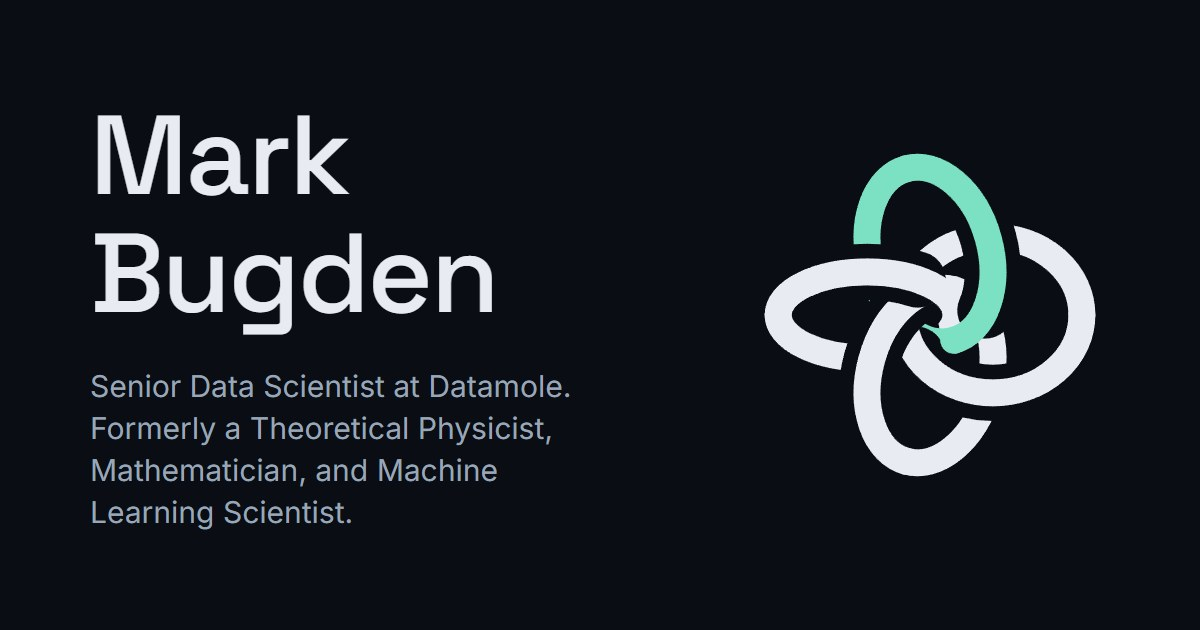
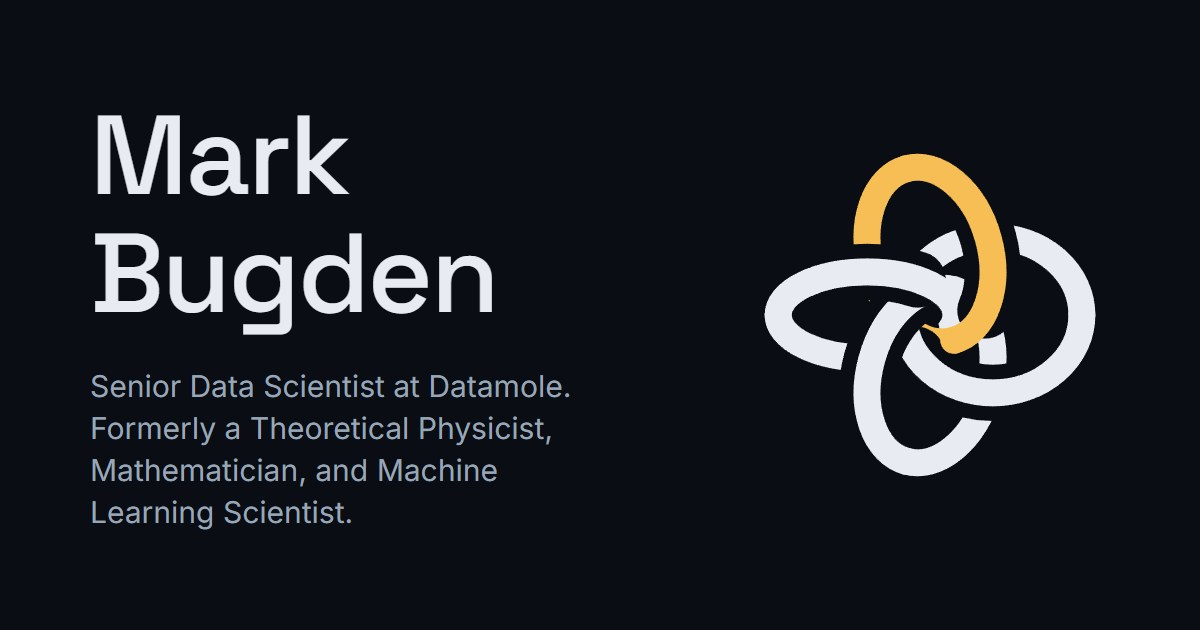
Sodium and H-alpha accents, dark by default, linked highlights
- Accent: sodium amber (#F6BE55) on dark, H-alpha red (#C2391B) on
  light, Mark's pick from the preview panel, where it is now the first
  option. The mark's accent fibre, the favicon, the touch icon and the
  link-preview image follow.
- Dark is the default whatever the OS prefers; light only when the
  visitor picks it. theme.js now always sets <html data-theme>, so
  demos match, and keeps the color-scheme and theme-color metas in step.
- Hovering a cell or pill on the figure, or a section link below it,
  now lights that section's orbits and its section link together: the
  hairline and title take the accent and the summary brightens.

Changed region(s): [[0.7092, 0.2413, 0.8633, 0.573]]

diff --git a/assets/css/site.css b/assets/css/site.css
@@ -1,8 +1,8 @@
 /*
  * Site styles: the phase portrait design. Every colour, face and size comes from the tokens on
- * :root below: dark by default, light when the OS prefers it, and either one when the visitor picks
- * it with the header button (<html data-theme>). Demos carry their own tokens on [data-demo], so
- * nothing here reaches inside a demo.
+ * :root below: dark, whatever the OS prefers, and light only when the visitor picks it with the
+ * header button (<html data-theme="light">). Demos carry their own tokens on [data-demo], so nothing
+ * here reaches inside a demo.
  */
 
 /* Fonts: self-hosted variable faces, Latin subset. Inter also has a Latin Extended file (Czech names
@@ -56,7 +56,7 @@
   --muted: #9AA6B8;
   --line: #2A3444;
   --curve: #526178;
-  --accent: #7CE0C3;
+  --accent: #F6BE55; /* sodium amber */
 
   --font-display: "Space Grotesk", system-ui, sans-serif;
   --font-text: "Inter", system-ui, sans-serif;
@@ -64,19 +64,6 @@
 
   --gutter: clamp(20px, 4vw, 56px);
   --measure: 680px;
-}
-
-@media (prefers-color-scheme: light) {
-  :root:not([data-theme="dark"]) {
-    color-scheme: light;
-    --bg: #F5F6F8;
-    --panel: #FFFFFF;
-    --fg: #10151D;
-    --muted: #556070;
-    --line: #D3D9E1;
-    --curve: #98A4B5;
-    --accent: color-mix(in oklab, #7CE0C3 50%, #000);
-  }
 }
 
 :root[data-theme="light"] {
@@ -87,7 +74,7 @@
   --muted: #556070;
   --line: #D3D9E1;
   --curve: #98A4B5;
-  --accent: color-mix(in oklab, #7CE0C3 50%, #000);
+  --accent: #C2391B; /* H-alpha red */
 }
 
 /* Base */
@@ -372,7 +359,7 @@ h2.label { margin-bottom: 12px; text-wrap: wrap; }
 }
 .phase__rotations { stroke: var(--line); stroke-width: 1; }
 .phase__separatrix { stroke: var(--curve); stroke-width: 1; stroke-dasharray: 4 5; }
-.phase__orbits { stroke: var(--curve); stroke-width: 1.3; transition: stroke 0.2s; }
+.phase__orbits { stroke: var(--lit, var(--curve)); stroke-width: 1.3; transition: stroke 0.2s; }
 /* The separatrix cells: invisible, but the whole of each is a link. */
 .phase__curves .phase__cell path { fill: transparent; stroke: none; pointer-events: fill; }
 .phase__cell:focus { outline: none; }
@@ -411,16 +398,14 @@ h2.label { margin-bottom: 12px; text-wrap: wrap; }
 
 .phase figcaption { margin-top: 10px; }
 
-/* An orbit group lights up while the pointer is anywhere in its cell, or while its pill or its section
-   link below the figure is hovered or focused. */
-main:has(:is(.phase__cell--about, .phase__pill--about, .section-link--about):is(:hover, :focus-visible)) .phase__orbits--about,
-main:has(:is(.phase__cell--publications, .phase__pill--publications, .section-link--publications):is(:hover, :focus-visible)) .phase__orbits--publications,
-main:has(:is(.phase__cell--projects, .phase__pill--projects, .section-link--projects):is(:hover, :focus-visible)) .phase__orbits--projects {
-  stroke: var(--accent);
-}
-
-@media (prefers-reduced-motion: reduce) {
-  .phase__orbits { transition: none; }
+/* A section lights up while the pointer is anywhere in its cell, or while its pill or its section link
+   below the figure is hovered or focused: its orbits and its section link change together. --lit is
+   the accent for the orbits, the link's hairline and its title; --lit-text brightens the summary. */
+main:has(:is(.phase__cell--about, .phase__pill--about, .section-link--about):is(:hover, :focus-visible)) :is(.phase__orbits--about, .section-link--about),
+main:has(:is(.phase__cell--publications, .phase__pill--publications, .section-link--publications):is(:hover, :focus-visible)) :is(.phase__orbits--publications, .section-link--publications),
+main:has(:is(.phase__cell--projects, .phase__pill--projects, .section-link--projects):is(:hover, :focus-visible)) :is(.phase__orbits--projects, .section-link--projects) {
+  --lit: var(--accent);
+  --lit-text: var(--fg);
 }
 
 .section-links {
@@ -436,12 +421,17 @@ main:has(:is(.phase__cell--projects, .phase__pill--projects, .section-link--proj
   flex-direction: column;
   gap: 6px;
   padding-block: 18px;
-  border-top: 1px solid var(--line);
+  border-top: 1px solid var(--lit, var(--line));
   color: var(--fg);
+  transition: border-color 0.2s;
 }
 .section-link:hover { color: var(--fg); }
-.section-link__title { font: 500 22px/1.5 var(--font-display); }
-.section-link__desc { color: var(--muted); }
+.section-link__title { font: 500 22px/1.5 var(--font-display); color: var(--lit, var(--fg)); transition: color 0.2s; }
+.section-link__desc { color: var(--lit-text, var(--muted)); transition: color 0.2s; }
+
+@media (prefers-reduced-motion: reduce) {
+  .phase__orbits, .section-link, .section-link__title, .section-link__desc { transition: none; }
+}
 
 /* About */
 

diff --git a/layouts/partials/accent-preview.html b/layouts/partials/accent-preview.html
@@ -1,7 +1,7 @@
 {{- /* Development only (hugo server; production builds leave it out): a panel for previewing accent
    colours across the site. Each preset pairs a dark-theme accent with a light-theme one, and every one
    clears 4.5:1 against both backgrounds of its theme. The choice is kept in localStorage, so it follows
-   you from page to page; "Current" clears it and shows what site.css sets. */ -}}
+   you from page to page. The first preset is what site.css sets: choosing it clears the override. */ -}}
 <style>
 .accent-preview { position: fixed; right: 16px; bottom: 16px; z-index: 100; display: flex; flex-direction: column; align-items: flex-end; gap: 8px; font: 400 14px/1.4 var(--font-text); color: var(--fg); }
 .accent-preview button { font: inherit; color: inherit; cursor: pointer; }
@@ -27,7 +27,8 @@
 <script>
 (function () {
   var presets = [
-    { name: 'Current', dark: '#7CE0C3', light: '#2C564A' },
+    { name: 'Sodium + H-alpha', dark: '#F6BE55', light: '#C2391B' },
+    { name: 'Original mint', dark: '#7CE0C3', light: '#2C564A' },
     { name: 'Mint', dark: '#7CE0C3', light: '#00785F' },
     { name: 'Cyan', dark: '#5ED3EE', light: '#00728F' },
     { name: 'Cherenkov blue', dark: '#86ABFF', light: '#2456D3' },
@@ -37,7 +38,7 @@
     { name: 'Sodium', dark: '#F6BE55', light: '#A35400' },
     { name: 'Phosphor', dark: '#A2E36E', light: '#3A7712' }
   ];
-  var key = 'accent-preview';
+  var key = 'accent-preview-2'; // bumped when the site's default changes, so an old preview is dropped
   var root = document.documentElement;
   var override = document.createElement('style');
   document.head.appendChild(override);
@@ -45,11 +46,10 @@
   function load(name) { try { return JSON.parse(localStorage.getItem(name)); } catch (e) { return null; } }
   function save(name, value) { try { localStorage.setItem(name, JSON.stringify(value)); } catch (e) { /* this page only */ } }
 
-  // :root:root and friends outrank site.css's token rules whatever order the sheets load in.
+  // :root:root and :root:root[data-theme] outrank site.css's token rules whatever order the sheets load in.
   function apply(choice) {
-    override.textContent = !choice || choice.name === 'Current' ? '' :
+    override.textContent = !choice || choice.name === presets[0].name ? '' :
       ':root:root{--accent:' + choice.dark + '}' +
-      '@media (prefers-color-scheme: light){:root:root:not([data-theme="dark"]){--accent:' + choice.light + '}}' +
       ':root:root[data-theme="light"]{--accent:' + choice.light + '}';
   }
 
@@ -165,9 +165,8 @@
     document.body.append(el('div', { class: 'accent-preview' }, [panel, toggle, probe]));
     if (load(key + '-open')) setOpen(true);
     render();
-    // Re-measure when the theme changes, from the header button or the OS.
+    // Re-measure when the header button changes the theme.
     new MutationObserver(render).observe(root, { attributes: true, attributeFilter: ['data-theme'] });
-    window.matchMedia('(prefers-color-scheme: light)').addEventListener('change', render);
   }
 
   if (document.readyState === 'loading') document.addEventListener('DOMContentLoaded', build);

diff --git a/assets/js/theme.js b/assets/js/theme.js
@@ -1,39 +1,41 @@
-// Theme: dark by default, light when the OS prefers it, unless the visitor has picked one with the
-// header button. This runs inline in <head>, so a saved choice applies before the first paint. Demos
-// follow <html data-theme> too.
+// Theme: dark, whatever the OS prefers, unless the visitor has picked light with the header button.
+// This runs inline in <head>, so a saved choice applies before the first paint. It always sets
+// <html data-theme>, which demos follow too, and keeps the color-scheme and theme-color metas in step,
+// so the browser's own surfaces match the page.
 // Keep "<" out of this file: minified, "a<b" looks like a tag to the link checker's HTML tokenizer,
 // which then stops reading the page.
 (function () {
   var root = document.documentElement;
   var key = 'theme';
-  var light = window.matchMedia('(prefers-color-scheme: light)');
+  var backgrounds = { dark: '#0A0E14', light: '#F5F6F8' };
 
-  try {
-    var saved = localStorage.getItem(key);
-    if (saved === 'light' || saved === 'dark') root.setAttribute('data-theme', saved);
-  } catch (e) { /* storage blocked: follow the OS */ }
-  root.classList.add('js');
-
-  function isDark() {
-    var theme = root.getAttribute('data-theme');
-    return theme ? theme === 'dark' : !light.matches;
+  function meta(name, content) {
+    var tag = document.querySelector('meta[name="' + name + '"]');
+    if (tag) tag.setAttribute('content', content);
   }
 
-  function sync() {
+  function set(theme) {
+    root.setAttribute('data-theme', theme);
+    meta('color-scheme', theme);
+    meta('theme-color', backgrounds[theme]);
     document.querySelectorAll('[data-theme-toggle]').forEach(function (button) {
-      button.setAttribute('aria-pressed', String(isDark()));
+      button.setAttribute('aria-pressed', String(theme === 'dark'));
     });
   }
 
-  document.addEventListener('DOMContentLoaded', sync);
-  if (light.addEventListener) light.addEventListener('change', sync);
+  var saved = null;
+  try { saved = localStorage.getItem(key); } catch (e) { /* storage blocked: stay dark */ }
+  set(saved === 'light' ? 'light' : 'dark');
+  root.classList.add('js');
+
+  // The header button is not parsed yet when this first runs.
+  document.addEventListener('DOMContentLoaded', function () { set(root.getAttribute('data-theme')); });
 
   document.addEventListener('click', function (event) {
     var button = event.target.closest && event.target.closest('[data-theme-toggle]');
     if (!button) return;
-    var next = isDark() ? 'light' : 'dark';
-    root.setAttribute('data-theme', next);
+    var next = root.getAttribute('data-theme') === 'dark' ? 'light' : 'dark';
+    set(next);
     try { localStorage.setItem(key, next); } catch (e) { /* the choice lasts for this page only */ }
-    sync();
   });
 })();

diff --git a/layouts/partials/head.html b/layouts/partials/head.html
@@ -13,9 +13,9 @@
 {{- else }}
 <link rel="canonical" href="{{ .Permalink }}">
 {{- end }}
-<meta name="color-scheme" content="light dark">
-<meta name="theme-color" content="#F5F6F8" media="(prefers-color-scheme: light)">
-<meta name="theme-color" content="#0A0E14" media="(prefers-color-scheme: dark)">
+{{- /* Dark until the visitor picks light; js/theme.js updates both when they do. */}}
+<meta name="color-scheme" content="dark">
+<meta name="theme-color" content="#0A0E14">
 {{- with resources.Get "js/theme.js" | minify }}
 <script>{{ .Content | safeJS }}</script>
 {{- end }}

diff --git a/scripts/hopf-mark.py b/scripts/hopf-mark.py
@@ -105,11 +105,11 @@ def main():
         f'<svg class="mark" viewBox="0 0 {SIZE} {SIZE}" aria-hidden="true" focusable="false">{inline}</svg>\n',
         encoding="utf-8",
     )
-    # site.css's --fg and --accent. The light accent is its color-mix(in oklab, #7CE0C3 50%, #000)
-    # worked out, since a favicon has no color-mix().
+    # site.css's --fg and --accent for each theme. The site itself is dark unless the visitor picks
+    # light, but a favicon sits on the browser's tab strip, so it follows the browser's theme.
     style = (
-        "path{fill:none;stroke-width:3.2;stroke-linecap:round}.f{stroke:#e8ecf2}.a{stroke:#7ce0c3}"
-        "@media (prefers-color-scheme:light){.f{stroke:#10151d}.a{stroke:#2c564a}}"
+        "path{fill:none;stroke-width:3.2;stroke-linecap:round}.f{stroke:#e8ecf2}.a{stroke:#f6be55}"
+        "@media (prefers-color-scheme:light){.f{stroke:#10151d}.a{stroke:#c2391b}}"
     )
     plain = "".join(f'<path class="{c}" d="{d}"/>' for d, _, c in arcs)
     (ROOT / "static/favicon.svg").write_text(

diff --git a/README.md b/README.md
@@ -25,7 +25,7 @@ hugo server -D        # http://localhost:1313, draft write-ups included
   - its write-up is not a draft
 
   The build fails if a published write-up's bundle is missing, is still a stub, or disagrees with `data/projects.yaml`.
-- **Styles** are all in [`assets/css/site.css`](assets/css/site.css). Its design tokens on `:root` hold every colour and typeface: dark by default, and light when the OS prefers it or the visitor picks it with the header button. Demos keep the kit's own tokens on `[data-demo]`. The fonts (Space Grotesk, Inter and JetBrains Mono) are self-hosted in `static/fonts/`.
+- **Styles** are all in [`assets/css/site.css`](assets/css/site.css). Its design tokens on `:root` hold every colour and typeface: dark, and light only when the visitor picks it with the header button. Demos keep the kit's own tokens on `[data-demo]`. The fonts (Space Grotesk, Inter and JetBrains Mono) are self-hosted in `static/fonts/`.
 - **Deploys.** [`.github/workflows/pages.yml`](.github/workflows/pages.yml) runs on every pull request and every push to `main`. It fetches and validates the bundles, builds with `hugo --minify --panicOnWarning`, and checks every link with lychee. On `main` it then deploys to GitHub Pages. Stub bundles are validated but not deployed.
 
 ## Publish a project
